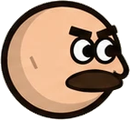
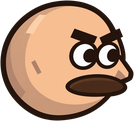
Fit the refined drifter heads and leg, with a generated bandana dead head
Claude-Session: https://claude.ai/code/session_01BFBgQDRtwohmswCU4dZyTG

diff --git a/src/config.js b/src/config.js
@@ -162,9 +162,8 @@ function lookFor(type, boss, rng) {
     vest: rng() < 0.5 ? 0x3b2a1e : null, mustache: rng() < 0.7, pants: 0x3d3346,
     scale: boss ? BOSS_SCALE : OUTLAW_SCALE,
   };
-  // Refined image parts (preview cut from the character sheet) for the plain outlaw types
-  // Only the plain head has a drawn dead version; bandana heads get X eyes painted on instead
-  const art = (torso, head, hat) => ({ art: 'outlaw', artParts: { torso, head, hat, head_dead: head === 'head' ? 'head_dead' : 'none' } });
+  // Refined image parts for the drifters, each head with its dead version
+  const art = (torso, head, hat) => ({ art: 'outlaw', artParts: { torso, head, hat, head_dead: head === 'head' ? 'head_dead' : 'head_dead_bandana' } });
   switch (type) {
     case 'hider':
       return { ...base, shirt: 0x6b5a3a, hat: 0x3a2a1a, hatStyle: 'flat', bandana: pick(BANDANAS), vest: null,

diff --git a/tools/fit_drifter_parts.py b/tools/fit_drifter_parts.py
@@ -3,7 +3,7 @@
 #   python3 -I tools/fit_drifter_parts.py docs/character-parts/refined/drifter public/art/outlaw
 #   cp public/art/outlaw/manifest.json src/art/outlaw.json
 #
-# Torsos are scaled by height (top at y = -93, belt bottom at the hips, 49 units), the cowboy hat by brim
+# Heads by skull height, the leg by height (hip to sole). Torsos are scaled by height (top at y = -93, belt bottom at the hips, 49 units), the cowboy hat by brim
 # width (66 units), arms by sleeve thickness (15 units, shoulder 7 units in). Drifters wear a red shirt
 # (vest torso) or a blue one (plain torso), so each weapon arm is saved with a red and a blue sleeve:
 # the sleeve (everything left of the hand) is recoloured, keeping its shading. Requires Pillow.
@@ -94,6 +94,21 @@ def main():
         ppu = (bb[3] - bb[1]) / 49.0
         manifest[key] = emit(key, im, bb, ppu, ((bb[0] + bb[2]) / 2, bb[1]), [0, -93])
 
+    # Heads: skull top at y = -124, skull's left edge at x = -18; 40 units tall, 45 with the bandana knot.
+    # The bandana dead head is generated by tools/make_bandana_dead_head.py.
+    for key, height in (('head', 40), ('head_dead', 40), ('head_bandana', 45), ('head_dead_bandana', 45)):
+        im = load_im(key)
+        a, bb = alpha(im)
+        manifest[key] = emit(key, im, bb, (bb[3] - bb[1]) / height, (bb[0], bb[1]), [-18, -124])
+
+    # Leg: hip pivot; 44.5 units from pivot to sole, ~2.5 units of hidden overlap above the hip
+    im = load_im('leg')
+    a, bb = alpha(im)
+    H = bb[3] - bb[1]
+    ppu = H / 47.0
+    x1, x2 = span_row(a, bb[1] + int(H * 0.15))
+    manifest['leg'] = emit('leg', im, bb, ppu, ((x1 + x2) / 2, bb[3] - 44.5 * ppu), [0, 0])
+
     im = load_im('hat_cowboy')
     a, bb = alpha(im)
     manifest['hat_cowboy'] = emit('hat_cowboy', im, bb, (bb[2] - bb[0]) / 66.0, ((bb[0] + bb[2]) / 2, bb[3]), [2, -113.5])
@@ -106,7 +121,7 @@ def main():
     manifest['arm_revolver'] = dict(manifest['arm_revolver_red'])  # default for looks that don't pick a colour
 
     json.dump(manifest, open(f"{OUT}/manifest.json", "w"), indent=1)
-    for k in ('torso_vest', 'torso_plain', 'hat_cowboy', 'arm_revolver_red', 'arm_revolver_blue', 'arm_shotgun_red', 'arm_shotgun_blue'):
+    for k in ('head', 'head_dead', 'head_bandana', 'head_dead_bandana', 'leg', 'torso_vest', 'torso_plain', 'hat_cowboy', 'arm_revolver_red', 'arm_revolver_blue', 'arm_shotgun_red', 'arm_shotgun_blue'):
         v = manifest[k]
         print(f"{k:18s} size={v['size']} src_ppu={v['src_ppu']} {v.get('muzzle', '')}")
 

diff --git a/tools/make_bandana_dead_head.py b/tools/make_bandana_dead_head.py
@@ -1,0 +1,46 @@
+# Make a dead (X-eyes) version of the drifter bandana head: paint the eyes over with skin and draw X's
+# in the same style as the other dead heads (which have no brows). The bandana is kept.
+#
+#   python3 -I tools/make_bandana_dead_head.py docs/character-parts/refined/drifter/drifter_head_bandana.webp docs/character-parts/refined/drifter/drifter_head_dead_bandana.png
+import sys
+from PIL import Image, ImageDraw
+
+src, out = sys.argv[1], sys.argv[2]
+im = Image.open(src).convert('RGBA')
+px = im.load()
+# eye whites -> the eye area (whites plus their outline), kept inside the head and above the bandana
+ws = [(x, y) for y in range(0, im.height, 2) for x in range(0, im.width, 2) if px[x, y][3] > 200 and min(px[x, y][:3]) > 235]
+x0, x1 = min(p[0] for p in ws), max(p[0] for p in ws)
+y0, y1 = min(p[1] for p in ws), max(p[1] for p in ws)
+# the eyes' outlines reach about 36 px past the whites; the brows sit up to ~125 px above them
+box = (x0 - 40, y0 - 30, x1 + 36, y1 + 18)
+brows = (x0 - 50, y0 - 130, x1 - 60, y0)
+skin = px[(x0 + x1) // 2 - 120, y0 - 160][:3]
+d = ImageDraw.Draw(im)
+d.rectangle(brows, fill=skin + (255,))
+d.rounded_rectangle(box, radius=40, fill=skin + (255,))
+# The right brow's tip overlaps the head outline: rebuild that stretch of outline, interpolating its
+# outer edge between the brow-free rows just above and below
+def right_edge(y):
+    return max(x for x in range(im.width) if px[x, y][3] > 128)
+ya, yb = y0 - 150, y0 - 10
+ea, eb = right_edge(ya), right_edge(yb)
+outline = px[(x0 + x1) // 2, min(y for y in range(im.height) if px[(x0 + x1) // 2, y][3] > 128) + 15]
+for y in range(ya, yb):
+    edge = ea + (eb - ea) * (y - ya) / (yb - ya)
+    for x in range(x1 - 60, im.width):
+        if x > edge:
+            px[x, y] = (0, 0, 0, 0)
+        elif x > edge - 46:
+            px[x, y] = outline
+        else:
+            px[x, y] = skin + (255,)
+# two X's centred on the old eyes
+ink = (35, 22, 15, 255)
+cy = (y0 + y1) // 2
+r, w = int((y1 - y0) * 0.42), int((y1 - y0) * 0.2)
+for cx in (x0 + (x1 - x0) * 0.22, x0 + (x1 - x0) * 0.75):
+    d.line((cx - r, cy - r, cx + r, cy + r), fill=ink, width=w)
+    d.line((cx - r, cy + r, cx + r, cy - r), fill=ink, width=w)
+im.save(out)
+print('eye box', box, 'skin', skin)

diff --git a/docs/character-parts/README.md b/docs/character-parts/README.md
@@ -107,7 +107,7 @@ The head, torso, leg, revolver arm and hat have been **fitted** and are used for
 | Dynamite Dan | reference, torso (vest, belt and pouch), head, dead head, dynamite arm, bowler, leg | `torso_dynamite_dan` (46 units wide, belt at the hips, pouch down to y = -31.5), `head_dynamite_dan` / `head_dead_dynamite_dan` (skull 40 units), `arm_dynamite_dynamite_dan` (fuse tip (43.4, -30.1), where a thrown stick starts), `hat_dynamite_dan` (brim 52 units; the crown showing below the brim sits over the forehead), `leg_dynamite_dan`. |
 | Hider | reference, torso (jacket, belt and pouch), head and dead head (with bandana), revolver arm, flat hat, leg | `torso_hider` (46 units wide, pouch down to y = -25), `head_hider` / `head_dead_hider` (45 units tall: skull 40 plus the bandana knot), `arm_revolver_hider` (muzzle (82.3, -7.8)), `hat_hider` (brim 78 units), `leg_hider`. He always carries a revolver; his gun arm is hidden while he crouches behind the barrel. |
 | The Undertaker | reference, torso (long coat with the steel plate), head, dead head, revolver arm, top hat, leg | `torso_undertaker` (46 units wide, coat down to y = -20), `head_undertaker` / `head_dead_undertaker` (skull 40 units), `arm_revolver_undertaker` (muzzle (83.6, -6.6)), `hat_undertaker` (brim 56 units), `leg_undertaker`. The plate is part of his torso image, so the separate armor overlay is off for him (`armor: 'none'` in his parts); his body shots still take 25% damage. |
-| Drifters | vest torso (red shirt), plain torso (blue shirt), cowboy hat, revolver arm, shotgun arm | `torso_vest` / `torso_plain` (49 units from the top at y = -93 down to the belt at the hips), `hat_cowboy` (brim 66 units), `arm_revolver_red` / `_blue` (muzzle (86.5, -7.6)), `arm_shotgun_red` / `_blue` (muzzle (100.2, -6.8)). Each arm is saved with a red and a blue sleeve (recoloured, keeping the shading) to match the shirt. Heads and the leg are still the sheet cut-outs. Fit tool: `tools/fit_drifter_parts.py`. |
+| Drifters | vest torso (red shirt), plain torso (blue shirt), cowboy hat, revolver arm, shotgun arm | `torso_vest` / `torso_plain` (49 units from the top at y = -93 down to the belt at the hips), `hat_cowboy` (brim 66 units), `arm_revolver_red` / `_blue` (muzzle (86.5, -7.6)), `arm_shotgun_red` / `_blue` (muzzle (100.2, -6.8)). Each arm is saved with a red and a blue sleeve (recoloured, keeping the shading) to match the shirt. Heads: `head` / `head_dead` (skull 40 units) and `head_bandana` / `head_dead_bandana` (45 with the knot); `leg`. The bandana dead head is generated from the bandana head by `tools/make_bandana_dead_head.py` until a drawn one replaces it. Fit tool: `tools/fit_drifter_parts.py`. |
 | Gunslinger boss | references (rifle, twins), torso (teal shirt, belt and pouch), rifle arm, hat | `torso_gunslinger` (46 units wide), `arm_rifle_gunslinger` (muzzle (100.3, -4.8)), `hat_gunslinger` (brim 72 units). His revolver and off-hand arms are the drifter revolver arm with a teal sleeve (`arm_revolver_gunslinger`, and a darker `offhand_gunslinger`). Until his own head, dead head and leg arrive he borrows Dynamite Dan's heads and the Gambler's leg. He now always has this look instead of a random outfit. |
 
 Fit new outlaw parts with `python3 -I tools/fit_outlaw_parts.py docs/character-parts/refined/<type> <type> public/art/outlaw`, copy the manifest to `src/art/outlaw.json` and map the parts in `lookFor()` (`src/config.js`).
@@ -119,7 +119,7 @@ All sheriff parts are now refined. Fit tools: `tools/fit_sheriff_art.py` (head, 
 `refined/character_set_sheet.webp` is the full refined set on one sheet (1774 × 887, no transparency). As a **rough preview**, its parts were cut out (cream background removed), fitted with the same rules and put in the game:
 
 - **Sheriff extras**: replaced by the refined versions above.
-- **Outlaws** (`public/art/outlaw/`): leg, plain, bandana and dead heads, off-hand arm and the flat, top and bowler hats. Drifters still use the leg and heads.
+- **Outlaws**: all replaced by refined art. The unused sheet cut-outs (off-hand arm, flat, top and bowler hats) are still in `public/art/outlaw/`.
 
 These cut-outs are low-resolution (each part was only 100–250 px on the sheet), so they're placeholders until the individual high-resolution transparent PNGs arrive.
 

diff --git a/docs/character-parts/still-to-redraw/README.md b/docs/character-parts/still-to-redraw/README.md
@@ -1,6 +1,6 @@
 # Still to redraw
 
-Everything in the game that doesn't use refined high-resolution art yet, as transparent PNGs to redraw. Send each redrawn part as its own transparent PNG, in the same pose and layout, like the special outlaws.
+**Almost everything is done.** Only optional extras remain: the gunslinger boss's own head, dead head and leg (he borrows Dynamite Dan's heads and the Gambler's leg), and a drawn bandana dead head for the drifters. The files below are kept for reference. Send each redrawn part as its own transparent PNG, in the same pose and layout, like the special outlaws.
 
 ## Sheriff
 
@@ -8,17 +8,7 @@ Everything in the game that doesn't use refined high-resolution art yet, as tran
 
 ## Drifters (the ordinary outlaws)
 
-**Done**: both torsos, the cowboy hat, and the revolver and shotgun arms. **Still needed**: the heads (plain, dead, bandana and a new bandana dead head) and the leg, which are still the low-resolution sheet cut-outs. Drifters mix and match: a vest or plain torso, a head with or without a bandana, the cowboy hat, and usually a revolver (sometimes a shotgun).
-
-| File | Notes |
-|---|---|
-| `drifter_torso_vest.png`, `drifter_torso_plain.png` | The two torsos. |
-| `drifter_head.png`, `drifter_head_dead.png` | Plain head and its dead version. |
-| `drifter_head_bandana.png` | Bandana head. It has no dead version yet, so a **bandana dead head** is also needed. |
-| `drifter_hat_cowboy.png` | Cowboy hat. |
-| `drifter_arm_revolver.png` | Revolver arm. |
-| `drifter_arm_shotgun.png` | Shotgun arm, currently **code-drawn** (no image yet). |
-| `drifter_leg.png` | Leg. |
+**Done**: all parts. The bandana dead head is generated from the bandana head (X eyes painted on) until a drawn one replaces it.
 
 ## Gunslinger boss
 
